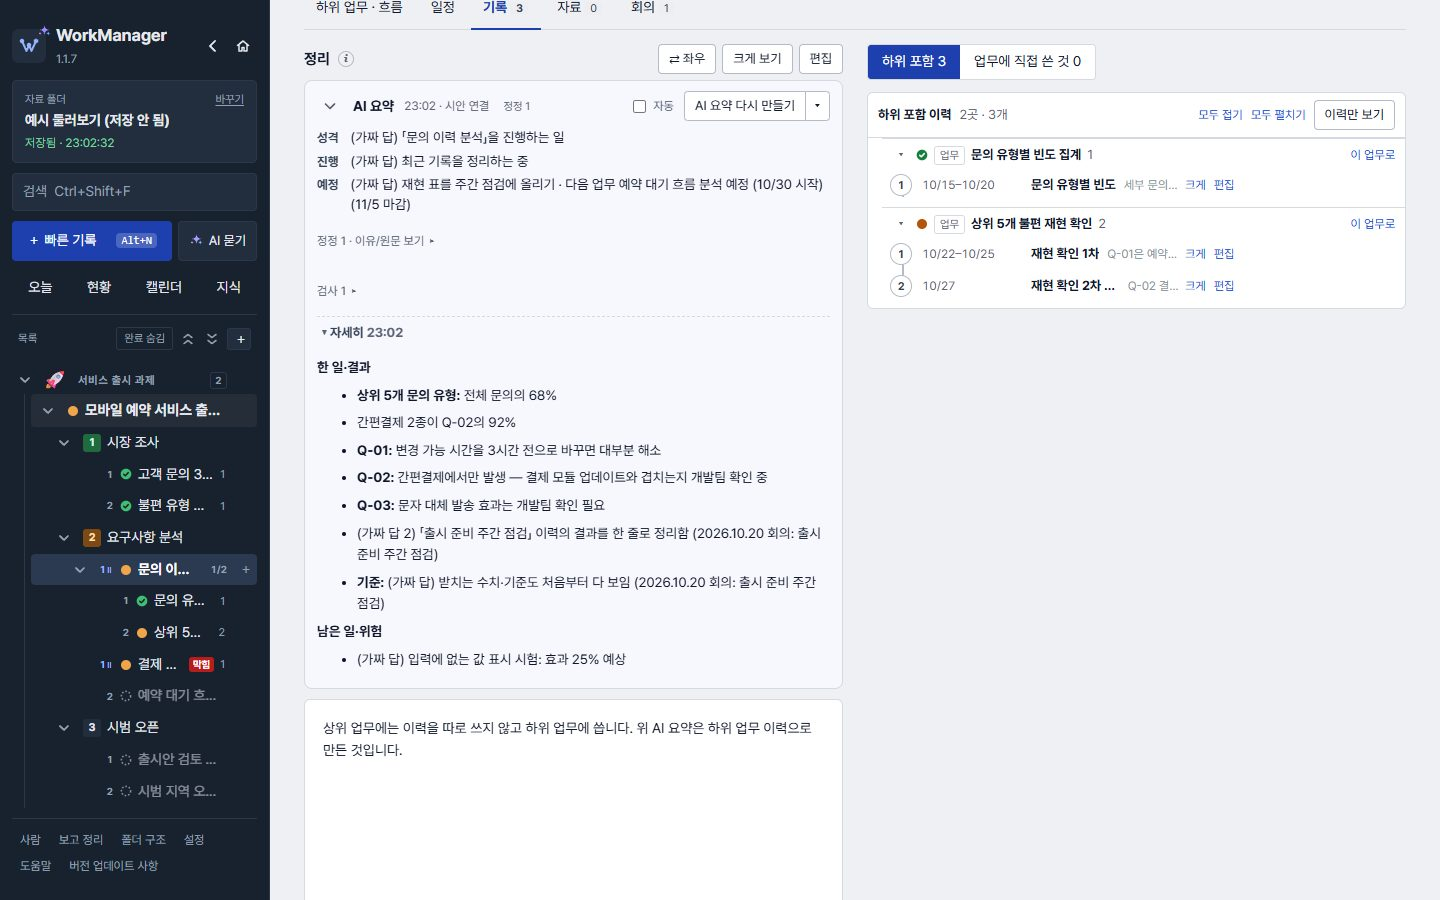
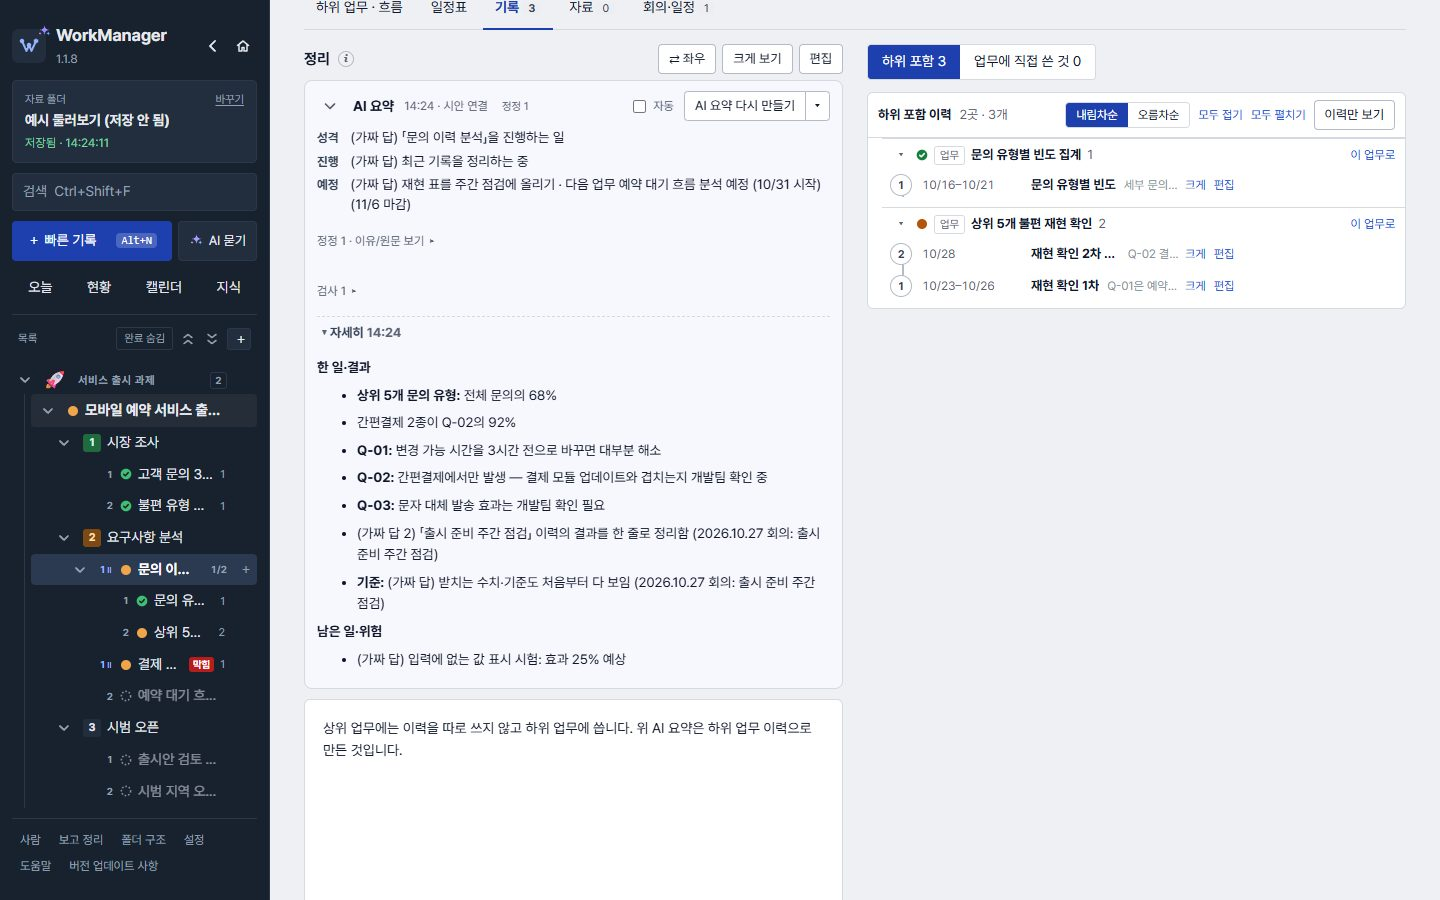
docs: WorkManager 1.1.8 안내와 설명서 갱신
Agent: Codex

diff --git a/manual/README.md b/manual/README.md
@@ -1,10 +1,26 @@
-# WorkManager 1.1.7 사용 설명서
+# WorkManager 1.1.8 사용 설명서
 
-Windows x64용 WorkManager 1.1.7 설명서입니다. 기존 자료 폴더와 AI 연결 설정을 그대로 이어 사용합니다.
+Windows x64용 WorkManager 1.1.8 설명서입니다. 기존 자료 폴더와 AI 연결 설정을 그대로 이어 사용합니다.
 
-[현재 정식판 다운로드](https://github.com/1821rpm/workmanager/releases/download/v1.1.7/WorkManager.exe) · [현재 정식판 설명서](https://github.com/1821rpm/workmanager/releases/download/v1.1.7/WorkManager-Manual-1.1.7.html) · [프로젝트 첫 화면](../README.md)
+[현재 정식판 다운로드](https://github.com/1821rpm/workmanager/releases/download/v1.1.8/WorkManager.exe) · [현재 정식판 설명서](https://github.com/1821rpm/workmanager/releases/download/v1.1.8/WorkManager-Manual-1.1.8.html) · [프로젝트 첫 화면](../README.md)
 
-기본 사용 설명은 앱 안 도움말과 같으며 아래에 이번 판 안내를 덧붙였습니다. 그림은 예시·합성 자료이며 AI 답은 모의 응답입니다. 업데이트 그림은 1.1.7 화면에서 만든 안내 예시입니다.
+기본 사용 설명은 앱 안 도움말과 같으며 아래에 이번 판 안내를 덧붙였습니다. 그림은 예시·합성 자료이며 AI 답은 모의 응답입니다. 업데이트 그림은 1.1.8 화면에서 만든 안내 예시입니다.
+
+## 1.1.8 안내
+
+- 회의·일정 탭에서 교육·방문·출장 같은 일정을 만듭니다. 종일 또는 며칠짜리로 정할 수 있고, 일정표와 현황의 오늘 일정에도 보입니다. 종일 일정의 알림 기준은 첫날 오전 9시입니다.
+- 회의록을 양식으로 저장하고 새 회의에 기본으로 넣을 수 있습니다. {날짜} {시각} {참석자} {제목}은 해당 회의 값으로 채웁니다. 양식 넣기…는 이미 쓴 글 뒤에 덧붙입니다.
+- 관리 ▾ › 틀로 저장…에서 업무·단계·프로젝트와 하위 항목을 함께 저장합니다. 틀만 또는 내용까지를 고르고, 틀에서 넣기…로 다시 씁니다. 같은 종류의 프로젝트·단계에 넣으면 그 안을 채웁니다.
+- 이력 순서는 기본 내림차순입니다. 설정에서 오름차순으로 바꿀 수 있고, 흐름 목록과 펼친 글이 같은 순서를 따릅니다.
+- 그림·관계도의 확대하기를 누르면 별도 창에서 휠로 확대하고 끌어서 옮깁니다. 두 번 누르면 맞춤과 원래 크기를 오갑니다. 흐름도의 빈 바탕도 끌 수 있습니다.
+- 현황의 기간을 고르면 브리핑과 할 일에 함께 적용됩니다. Alt+A로 AI에게 묻기를 열고, AI 창에서 Ctrl+Enter로 보냅니다. 이력 칸의 맨 위로 단추로 돌아갈 수 있습니다.
+- 상위 목적을 참고한 AI 요약은 이후 상위 목적이 바뀌면 알림을 보여 줍니다. 이 변경만으로 요약을 자동으로 다시 만들지는 않습니다.
+- 휴지통을 비울 때 기록을 지운 수가 표시됩니다. 전체 경과 시간과 함께 보며, 첨부 정리까지 마쳐야 작업이 끝납니다.
+- 설정 › 편집기·화면의 편집 빨리 열기 (시험)는 기본 꺼짐입니다. 켜면 큰 표가 든 이력의 편집을 빠르게 열 수 있습니다.
+- 업데이트를 받는 중 파일이 깨졌거나 프로그램 파일이 아니면 현재 프로그램을 유지하고 다시 받도록 안내합니다.
+- 기존 자료 폴더와 AI 연결 설정을 이어 사용합니다. 1.1.7 앱에서는 일정이 회의로 보이고, 새 틀을 고르면 맨 위 항목만 채웁니다.
+- 1.1.7 이하 앱에서 휴지통을 비우면 틀·회의록 양식 안의 그림이 지워질 수 있습니다. 해당 자료의 휴지통 비우기는 1.1.8 앱에서 하세요.
+- 틀에는 이력·회의·AI 요약·사람·상태·알림과 첨부 파일 자료를 담지 않습니다. 글자 색·크기가 있는 정리는 예전 앱 호환을 위해 제외하며 안내합니다.
 
 ## 1.1.7 안내
 
@@ -101,7 +117,7 @@ Windows x64용 WorkManager 1.1.7 설명서입니다. 기존 자료 폴더와 AI 
 
 ## 알려진 점
 
-- 실제 사용 모델·백신 환경은 확인하지 못했습니다.
+- 실제 모델·백신 상황은 확인하지 못했습니다.
 - 휴지통 비우기에는 진행 표시가 없습니다.
 - 폴더를 바꾸어도 이전 요청은 답이 올 때까지 전송 자리를 차지합니다. 병렬 요청에서는 선택한 하루 한도를 최대 2개(기본 동시 수 3 기준) 넘을 수 있습니다. 직접 누른 만들기는 하위 정리를 기다리지 않습니다.
 - 설명서의 기존 예시 그림에는 이전 판 화면과 모의 응답 문구가 포함되어 있습니다.

diff --git a/README.md b/README.md
@@ -2,18 +2,34 @@
 
 흐름으로 업무를 관리하고, 쌓인 기록을 AI로 요약·정리하는 Windows 개인 업무 관리 앱입니다.
 
-**최신 버전: 1.1.7** · Windows (x64)
+**최신 버전: 1.1.8** · Windows (x64)
 
 | 필요한 것 | 바로가기 |
 |---|---|
 | 프로그램 | [WorkManager.exe 다운로드](https://github.com/1821rpm/workmanager/releases/latest/download/WorkManager.exe) |
 | 사용 설명서 | **[GitHub에서 바로 읽기](manual/README.md)** |
-| 오프라인 설명서 | [Releases](https://github.com/1821rpm/workmanager/releases/latest)의 [WorkManager-Manual-1.1.7.html](https://github.com/1821rpm/workmanager/releases/download/v1.1.7/WorkManager-Manual-1.1.7.html) — 받은 파일을 더블클릭하면 브라우저에서 열립니다 |
+| 오프라인 설명서 | [Releases](https://github.com/1821rpm/workmanager/releases/latest)의 [WorkManager-Manual-1.1.8.html](https://github.com/1821rpm/workmanager/releases/download/v1.1.8/WorkManager-Manual-1.1.8.html) — 받은 파일을 더블클릭하면 브라우저에서 열립니다 |
 | 변경 내용 · 이전 버전 | [Releases](https://github.com/1821rpm/workmanager/releases) |
 
 ![프로젝트의 개요와 업무 흐름](manual/img/04-project.jpg)
 
 자료 형식 v6를 유지하며 기존 자료 폴더와 AI 연결 설정을 이어 사용합니다.
+
+## 1.1.8에서 달라진 점
+
+- 회의·일정 탭에서 교육·방문·출장 같은 일정을 만듭니다. 종일 또는 며칠짜리로 정할 수 있고, 일정표와 현황의 오늘 일정에도 보입니다. 종일 일정의 알림 기준은 첫날 오전 9시입니다.
+- 회의록을 양식으로 저장하고 새 회의에 기본으로 넣을 수 있습니다. {날짜} {시각} {참석자} {제목}은 해당 회의 값으로 채웁니다. 양식 넣기…는 이미 쓴 글 뒤에 덧붙입니다.
+- 관리 ▾ › 틀로 저장…에서 업무·단계·프로젝트와 하위 항목을 함께 저장합니다. 틀만 또는 내용까지를 고르고, 틀에서 넣기…로 다시 씁니다. 같은 종류의 프로젝트·단계에 넣으면 그 안을 채웁니다.
+- 이력 순서는 기본 내림차순입니다. 설정에서 오름차순으로 바꿀 수 있고, 흐름 목록과 펼친 글이 같은 순서를 따릅니다.
+- 그림·관계도의 확대하기를 누르면 별도 창에서 휠로 확대하고 끌어서 옮깁니다. 두 번 누르면 맞춤과 원래 크기를 오갑니다. 흐름도의 빈 바탕도 끌 수 있습니다.
+- 현황의 기간을 고르면 브리핑과 할 일에 함께 적용됩니다. Alt+A로 AI에게 묻기를 열고, AI 창에서 Ctrl+Enter로 보냅니다. 이력 칸의 맨 위로 단추로 돌아갈 수 있습니다.
+- 상위 목적을 참고한 AI 요약은 이후 상위 목적이 바뀌면 알림을 보여 줍니다. 이 변경만으로 요약을 자동으로 다시 만들지는 않습니다.
+- 휴지통을 비울 때 기록을 지운 수가 표시됩니다. 전체 경과 시간과 함께 보며, 첨부 정리까지 마쳐야 작업이 끝납니다.
+- 설정 › 편집기·화면의 편집 빨리 열기 (시험)는 기본 꺼짐입니다. 켜면 큰 표가 든 이력의 편집을 빠르게 열 수 있습니다.
+- 업데이트를 받는 중 파일이 깨졌거나 프로그램 파일이 아니면 현재 프로그램을 유지하고 다시 받도록 안내합니다.
+- 기존 자료 폴더와 AI 연결 설정을 이어 사용합니다. 1.1.7 앱에서는 일정이 회의로 보이고, 새 틀을 고르면 맨 위 항목만 채웁니다.
+- 1.1.7 이하 앱에서 휴지통을 비우면 틀·회의록 양식 안의 그림이 지워질 수 있습니다. 해당 자료의 휴지통 비우기는 1.1.8 앱에서 하세요.
+- 틀에는 이력·회의·AI 요약·사람·상태·알림과 첨부 파일 자료를 담지 않습니다. 글자 색·크기가 있는 정리는 예전 앱 호환을 위해 제외하며 안내합니다.
 
 ## 1.1.7에서 달라진 점
 
